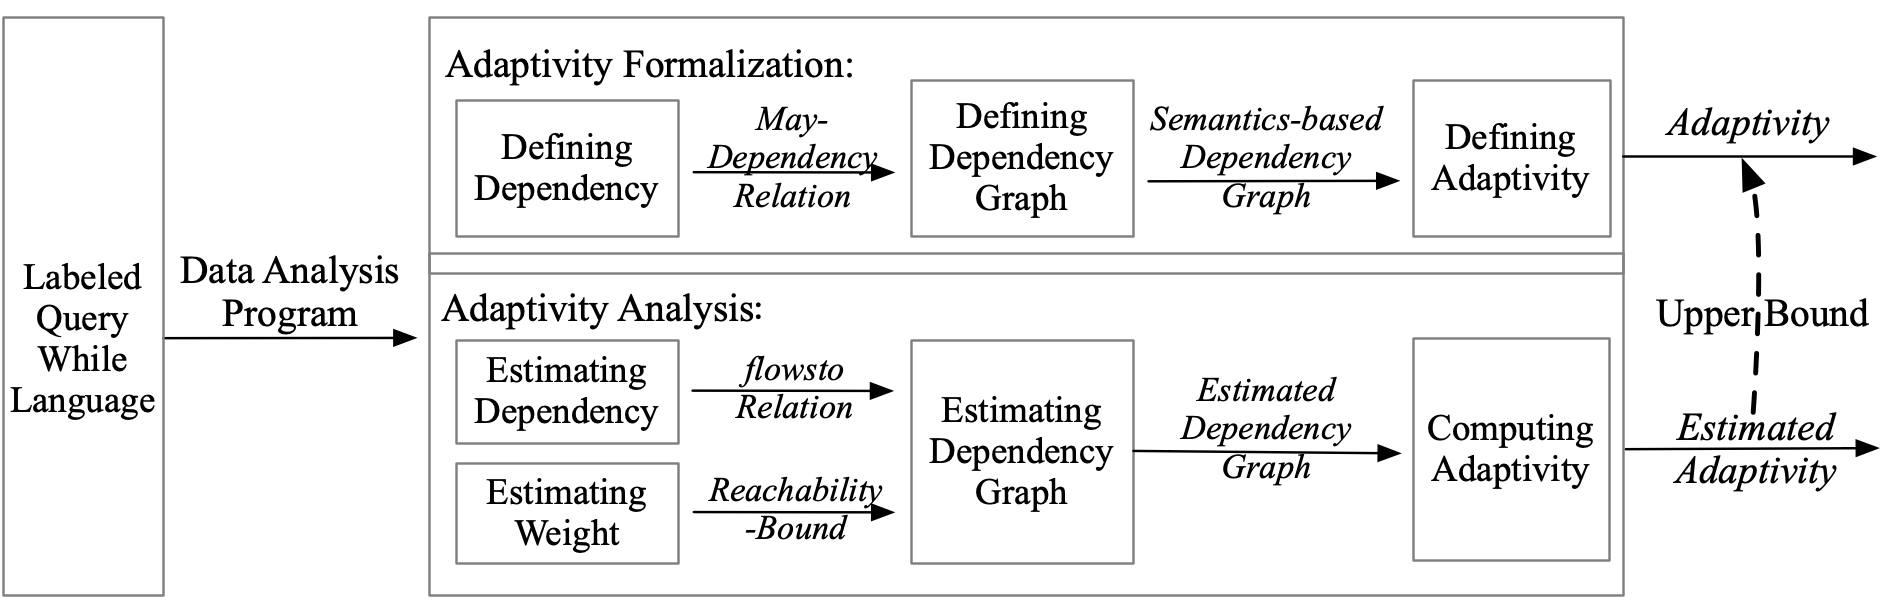
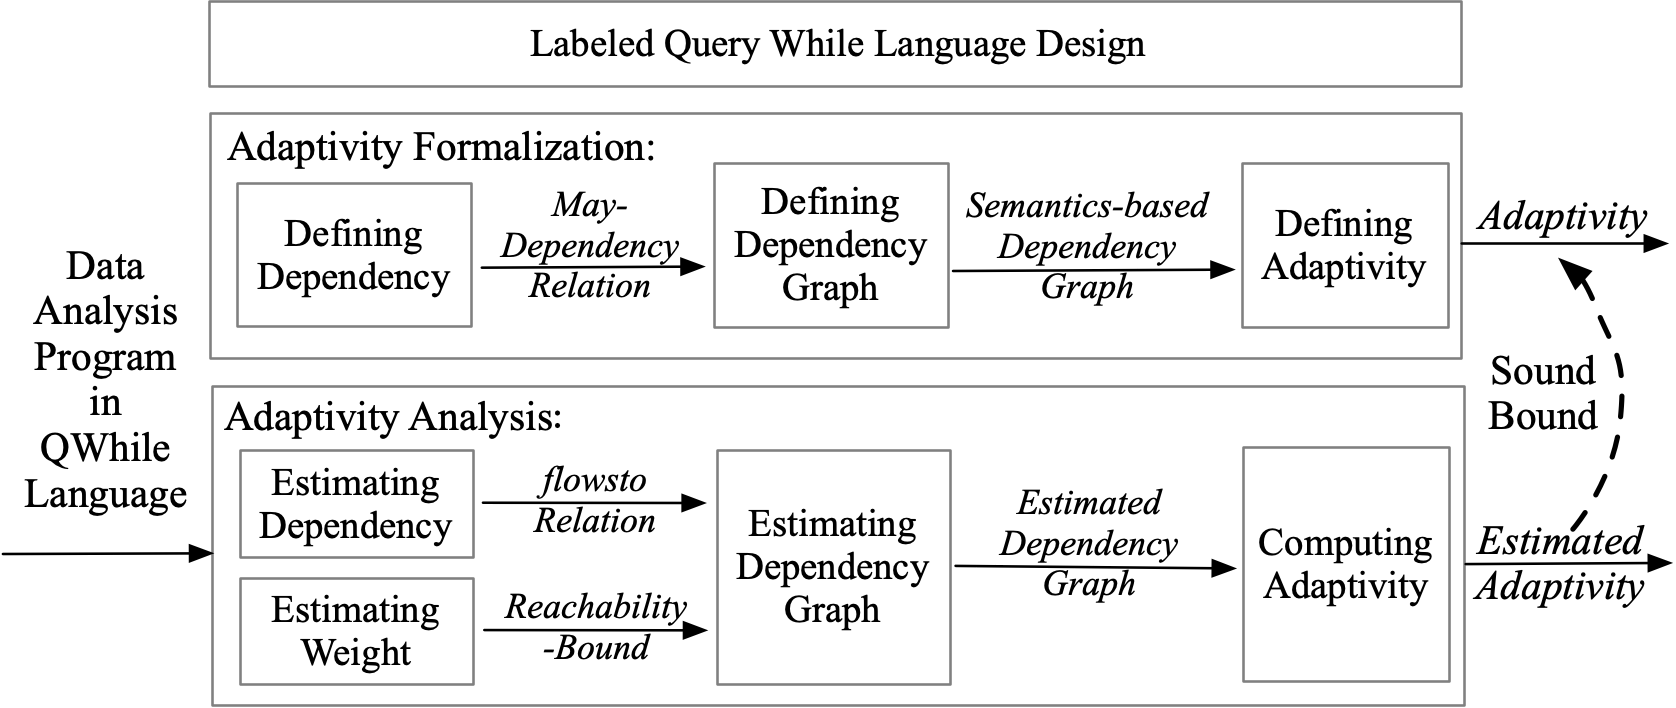
pass on the PART I adaptive Part

diff --git a/CS/Thesis/chapters/adapt/motivation.tex b/CS/Thesis/chapters/adapt/motivation.tex
@@ -108,7 +108,7 @@ This is because I'm focusing on the generalization error which could be propagat
 
 To formalize this intuitive \emph{adaptivity} as a quantitative program property, 
 I analyze the program's execution based on its semantics
-%  develop an execution-based analysis 
+%  develop an semantics-based analysis 
 in Section~\ref{sec:adapt-exe}.
 \item 
 \textbf{Adaptivity Estimation}
@@ -121,7 +121,7 @@ I can use a program analysis that is based on some form of dependency analysis.
 Hence, it needs to consider some form of data flow analysis. 
 2) the fact that, in general, the decision on whether to run a query or not may depend on some other value. Hence, 
  it needs to consider some form of control flow analysis.
-3) the fact that. in general, I am not only interested in whether there is a dependency or not, but in the length of the chain of dependencies. 
+3) the fact that. In general, I am not only interested in whether there is a dependency or not, but in the length of the chain of dependencies. 
 Hence, it needs to consider some quantitative information about the program dependencies. % {A quick example is that: I store the result of query $Q_1$ in variable $x$ and use variable $y$ to record the result of query $Q_2$. I want to construct the third query $Q_3$ which relies on the value stored in $x$, let us say, $Q_3$ will ask for the sum of the first column of a table if $x$ is positive and the sum of the second column otherwise. In this situation, I need data flow analysis. On the other hand, if I need the value of $y$ to help us decide whether I should ask $Q_3$, for example, I ask the third query if $y$ is odd, and do not ask if $y$ is even. Naturally, to be able to handle this case, control flow analysis comes into play. Formally speaking, }
 
 To address these considerations and be able to estimate a sound upper bound on the adaptivity of a program, 
@@ -130,7 +130,7 @@ I develop a static program analysis in Section~\ref{sec:adapt-static}, named {\T
 \end{enumerate}
 % \\
 %
-\subsection{Technique Overview}
+\subsection{Proposed Methodology}
 \label{sec:adapt-intro-overview}
 
 \subsubsection{Language Design}
@@ -184,23 +184,23 @@ execution.
 %
 % And the 
 There are different methodologies that can be used to formalize the dependency between two query requests, such as the 
-dynamic analysis, execution-based analysis, static analysis, etc.
+dynamic analysis, semantics-based analysis, static analysis, etc.
 %
 In order to capture the dependency (also the intuitive \emph{adaptivity}) in the most precise way,
-% I design the execution-based program analysis method.
+% I design the semantics-based program analysis method.
 I formalize the adaptivity based on the program's execution.
 %
 % In order to define it in 
 % The most precise way to define this dependency is by observing the actual evaluation of these query requests during the 
 % program execution.
-This execution-based
+This semantics-based
 % program analysis method 
 formalization is precise in defining both the dependency relation
 % between query requests,
 and the intuitive \emph{adaptivity} because it is
 % In particular, I'm interested in the history or provenance of a query up until this is executed, I'm not then concerned about how the result is used --- except for tracking whether the result of the query may further cause some other query. 
-% Based on this, I design the adaptivity formalization method through the execution-based program analysis techniques.
-% These execution-based analysis techniques are 
+% Based on this, I design the adaptivity formalization method through the semantics-based program analysis techniques.
+% These semantics-based analysis techniques are 
 based on observing the actual evaluation of these query requests during the 
 program execution. This is consistent with the intuition of query requests dependency and their dependency depth,
 as well as the intuitive
@@ -217,7 +217,7 @@ and formalizing the program's properties.
 % dependency analysis. 
 However, it is not straightforward how to apply them to analyzing and formalizing the \emph{adaptivity}
 for adaptive data analysis program.
-There are following three limitations among existing execution-based analysis techniques.
+There are following three limitations among existing semantics-based analysis techniques.
 \begin{enumerate}
 \item The state-of-art dependency relation analysis techniques don't
 consider both control influence and value influence. However, both of these
@@ -243,12 +243,12 @@ These previous works and limitations on formalizing the adaptivity are introduce
 %
 \paragraph{Methodology Overview}
 % To formalize this intuition as a quantitative program property, 
-% in Chapter~\ref{ch:dynamic} I develop an execution-based analysis
+% in Chapter~\ref{ch:dynamic} I develop an semantics-based analysis
 % % I first consider all the possible evaluations of a program --- I do this by 
 % % I use trace semantics recording the execution history of programs on some given input --- and I create a dependency graph, where the dependency between different variables (query is also assigned to a variable) is explicit and track which variable is associated with a query request. 
 % % I then enrich this graph with weights describing the maximal number of times each variable is evaluated in a program evaluation starting with an initial state. The adaptivity is then defined as the length of the walk visiting most query-related variables on this graph. 
-% % Through two aspects: the execution-based analysis and static-based program analysis.
-% % In the execution-based analysis, I will formalize the intuitive notion of \emph{adaptivity} as a quantitative 
+% % Through two aspects: the semantics-based analysis and static-based program analysis.
+% % In the semantics-based analysis, I will formalize the intuitive notion of \emph{adaptivity} as a quantitative 
 % % property of programs. This analysis is developed 
 % in three steps through different methodologies in each step as follows,
 Given all these limitations and challenges,
@@ -257,10 +257,10 @@ I give a new adaptivity formalization model by analyzing program's exectuion in 
 % I first consider all the possible evaluations of a program --- I do this by 
 % I use a trace semantics recording the execution history of programs on some given input --- and I create a dependency graph, where the dependency between different variables (query is also assigned to a variable) is explicit and track which variable is associated with a query request. 
 % I then enrich this graph with weights describing the maximal number of times each variable is evaluated in a program evaluation starting with an initial state. The adaptivity is then defined as the length of the walk visiting most query-related variables on this graph. 
-% Through two aspects: the execution-based analysis and static-based program analysis.
-% In the execution-based analysis, I will formalize the intuitive notion of \emph{adaptivity} as a quantitative 
+% Through two aspects: the semantics-based analysis and static-based program analysis.
+% In the semantics-based analysis, I will formalize the intuitive notion of \emph{adaptivity} as a quantitative 
 % property of programs. This analysis is developed 
- This execution-based formalization is designed in three steps through different methodologies as follows,
+ This semantics-based formalization is designed in three steps through different methodologies as follows,
 % \begin{enumerate}
 % \item The dependency relation between every query, through the methodology of semantic data dependency analysis.
 % \\
@@ -268,10 +268,10 @@ I give a new adaptivity formalization model by analyzing program's exectuion in 
 % % --- and I create a dependency graph, 
 % the dependency between different variables (query is also assigned to a variable) is explicit and track which variable is associated with a query request. 
 % % I then enrich this graph with weights describing the maximal number of times each variable is evaluated in a program evaluation starting with an initial state. The adaptivity is then defined as the length of the walk visiting most query-related variables on this graph. 
-% % In the execution-based analysis, I will formalize the intuitive notion of \emph{adaptivity} as a quantitative 
+% % In the semantics-based analysis, I will formalize the intuitive notion of \emph{adaptivity} as a quantitative 
 % % property of programs. This analysis is developed 
 % % \\
-% \item The dependency quantity analysis, through the methodology of execution-based data reachability, bound analysis.
+% \item The dependency quantity analysis, through the methodology of semantics-based data reachability, bound analysis.
 % % \\
 % \item The adaptivity quantity analysis, based on the two analysis results above, gives the formal \emph{adaptivity} model 
 % for program.
@@ -291,52 +291,37 @@ I give a new adaptivity formalization model by analyzing program's exectuion in 
  % and 
  % which variable is associated with a query request. 
  % I then enrich this graph with weights describing the maximal number of times each variable is evaluated in a program evaluation starting with an initial state. The adaptivity is then defined as the length of the walk visiting most query-related variables on this graph. 
- % In the execution-based analysis, I will formalize the intuitive notion of \emph{adaptivity} as a quantitative 
+ % In the semantics-based analysis, I will formalize the intuitive notion of \emph{adaptivity} as a quantitative 
  % property of programs. This analysis is developed 
  % \\
- \item The second step in Section~\ref{sec:dynamic-reachability} is to analyze the \emph{dependency quantity} 
- % analysis, 
- based on the \emph{dependency relation} above.
- This analysis is developed through the methodology of execution-based reachability bound analysis.
- % \\
- % \item The last step in Section~\ref{sec:dynamic-adapt} is the intuitive \emph{adaptivity} quantity analysis, 
- % according to the two analysis results above, specifically \emph{dependency relation} and \emph{dependency quantity}.
- % This analysis is developed through the formal \emph{adaptivity} definition. \\
- % Specifically, I create a dependency graph, where the dependency between different variables (query is also assigned to a variable) is explicit and track which variable is associated with a query request. 
- % I then enrich this graph with weights describing the maximal number of times each variable is evaluated in a program evaluation starting with an initial state. 
- % The adaptivity is then defined as the length of the walk visiting most query-related variables on this graph. 
+ \item The second step in Section~\ref{sec:dynamic-graph} constructs a dependency graph combining the \emph{dependency relation}
+with a \emph{quantitative relation} as weight. % analysis, 
+ The edges are created by dependency comes from the \emph{dependency relation} defined above.
+ The weights describing the maximal number of times each variable is evaluated in a program evaluation starting with an initial state. 
+ For each variable (query is also assigned to a variable) 
+ we also explicitly track and annotate which one is associated with a query request. 
+
  \item The last step is the intuitive \emph{adaptivity} quantity definition, 
  according to the two analysis results above, specifically \emph{dependency relation} and \emph{dependency quantity}.
  This step 
  % is developed through 
- gives the formal \emph{adaptivity} definition. 
- \\
- Specifically, this analysis is developed by creating a dependency graph first. 
- In this graph, the dependency between different variables (query is also assigned to a variable) 
- is explicit and tracks which variable is associated with a query request. 
- This dependency comes from the \emph{dependency relation} from the first step analysis.
- \\
- Then, I enrich this graph with 
- weights describing the maximal number of times each variable is evaluated in a program evaluation starting with an initial state. 
- This weight comes from the \emph{dependency quantity} from the second step analysis results.
- \\
- The adaptivity is then defined as the length of the walk visiting most query-related variables on this graph. 
+ gives the formal \emph{adaptivity} definition, as the length of the walk visiting most query-related variables on this graph. 
  \end{enumerate}
  % \item 
 \subsubsection{Static Program Analysis}
 \label{sec:adapt-intro-static}
 % \paragraph{Limitations of Existing Execution-Based Program Analysis Techniques}
 %
-Though we have the intuitive \emph{Adaptivity} formally and precisely defined through the execution-based program analysis,
+Though we have the intuitive \emph{Adaptivity} formally and precisely defined through the semantics-based program analysis,
 it is still not useful enough for programmers.
-The weakness of the execution-based formalization comes from its in-efficiency.
+The weakness of the semantics-based formalization comes from its in-efficiency.
 It can only give the \emph{Adaptivity} number
 after the program is executed multiple times.
 When the query requests, the multiple executions consume a large amount of computation and communication resources.
 This requires us to develop an efficient analysis method, 
 which can provide the programmers with the \emph{Adaptivity} quantity.
 Because the static program analysis techniques usually don't require the execution of the program,
-they are more efficient than the execution-based formalization.
+they are more efficient than the semantics-based formalization.
 Motivated by this, we develop a static program analysis framework, named {\THESYSTEM}.
 % the through static-based 
 % program analysis techniques.
@@ -425,7 +410,7 @@ To address these considerations and be able to estimate a sound upper bound on t
 I develop a static program adaptivity analysis framework, named {\THESYSTEM} in Chapter~\ref{sec:adapt-static}.
 % which 
 % {\THESYSTEM} combines data flow and control flow analysis with reachability bound analysis~\cite{GulwaniZ10}. 
-% This new program analysis gives tighter bounds on the adaptivity of a program than the ones one would achieve by directly using the data and control flow analyses or the ones that one would achieve by directly using reachability bound analysis techniques alone. Specifically as follows in the same 3 aspects as the execution-based analysis 
+% This new program analysis gives tighter bounds on the adaptivity of a program than the ones one would achieve by directly using the data and control flow analyses or the ones that one would achieve by directly using reachability bound analysis techniques alone. Specifically as follows in the same 3 aspects as the semantics-based analysis 
 % while through static program analysis techniques, a sound estimated result will be given in each aspect as follows.
 This analysis combines data flow and control flow analysis with reachability bound analysis.
 % ~\cite{GulwaniZ10}. 
@@ -433,24 +418,19 @@ This new program analysis gives tighter bounds on the adaptivity of a program th
 by directly using the data and control flow analyses or the ones that one would achieve 
 by directly using reachability bound analysis techniques alone. 
 % Specifically as follows in the same 
-It is developed in 3 aspects similar to the execution-based adaptivity analysis 
+It is developed in 3 aspects similar to the semantics-based adaptivity analysis 
 while through static program analysis techniques. 
 A sound estimated result is given in each part, which is summarized as follows.
 \begin{enumerate}
-% \item The data dependency relation analysis through the static data flow analysis technique.
-% \item The dependency quantity analysis through the static program reachability bound analysis techniques.
-% \item The program adaptivity estimation, through newly designed algorithms based on the results estimated above, 
-% computing the adaptivity upper bound soundly 
-% and accurately.
-\item The {\THESYSTEM} analyzes the data \emph{dependency relation} through the static data flow analysis technique in Section~\ref{sec:static-dep}.
-This analysis corresponds to the first step in execution-based adaptivity analysis. 
+\item The {\THESYSTEM} analyses the data \emph{dependency relation} through the static data flow analysis technique in Section~\ref{sec:alg_edgegen}.
+This analysis corresponds to the first step in semantics-based adaptivity analysis. 
 The estimated result produced from 
 this step is proved as a sound upper bound for the \emph{dependency relation} defined in the adaptivity formalization model from Section~\ref{sec:dynamic-datadep}.
 \item 
 % Still , 
-Corresponding to the second step in execution-based adaptivity analysis, the \emph{dependency quantity} 
-is estimated by {\THESYSTEM} through the static program reachability bound analysis techniques, in Section~\ref{sec:static-quantity}.
-% This analysis corresponds to the second step in execution-based adaptivity analysis. 
+Corresponding to the second step in semantics-based adaptivity analysis, the \emph{dependency quantity} 
+is estimated by {\THESYSTEM} through the static program reachability bound analysis techniques, in Section~\ref{sec:alg_weightgen}.
+% This analysis corresponds to the second step in semantics-based adaptivity analysis. 
 The estimated result produced from 
 this step is proved as a sound upper bound for the \emph{dependency quantity} defined in the adaptivity formalization model.
 \item 
@@ -458,16 +438,11 @@ this step is proved as a sound upper bound for the \emph{dependency quantity} de
 % In 
 The static program adaptivity analysis in this step
 % , specifically estimating 
-estimates the \emph{adaptivity} formalized in the third step of adaptivity formalization in Section~\ref{sec:static-adapt}.
-% is presented in Section~\ref{sec:static-reachability}.
-% the program adaptivity estimation, 
-According to the third step of execution-based adaptivity analysis, 
-{\THESYSTEM} in this step also constructs a program-based dependence graph for approximating the execution-based dependency graph.
+estimates the \emph{adaptivity} formalized in the third step of adaptivity formalization in Section~\ref{sec:adaptfun-adaptcompute}.
+According to the third step of semantics-based adaptivity analysis, 
+{\THESYSTEM} in this step also constructs a program-based dependence graph for approximating the semantics-based dependency graph.
 % in Section~\ref{sec:dynamic-adapt}.
 Then, based on this graph, {\THESYSTEM} 
-% I design an algorithm
-% based on the results estimated above, 
-% computing 
 computes the adaptivity upper bound soundly 
 and accurately through a newly designed algorithm.
 \end{enumerate}

diff --git a/CS/Thesis/main.tex b/CS/Thesis/main.tex
@@ -479,15 +479,14 @@ my loving son \\ Taro
 \listofappendixfigures
 \endgroup
 %
-\chapter{Appendix for REACHABILITY BOUND ANALYSIS}
+\chapter{\redd{PART \romannum{1} \quad  PROGRAM ANALYSIS FRAMEWORK FOR ADAPTIVE DATA ANALYSIS}}
+\label{apdx:adapt}
+\include{chapters/adapt/appendix}
+
+\chapter{\redd{PART \romannum{2} \quad  PATH-SENSITIVE REACHABILITY BOUND ANALYSIS}}
 \label{apdx:reachability}
 \include{chapters/reachability/appendix}
 
-% \chapter*{\redd{PART \romannum{2} \quad  PROGRAM ANALYSIS FRAMEWORK FOR ADAPTIVE DATA ANALYSIS}}
-\chapter{Appendix for PROGRAM ANALYSIS FRAMEWORK FOR ADAPTIVE DATA ANALYSIS}
-\label{apdx:adapt}
-\include{chapters/adapt/appendix}
-% \stoplist[appendix]{lof}
 
 % % \include{chapters/Glossary}
 % \end{appendices}
@@ -548,7 +547,7 @@ Work office \\Boston University \\ Boston, MA 02118 \\\hyperlink{mailto:buemail@
 
 \subsection*{Doctoral Research:}
 \begin{tabular}{p{0.2\textwidth}p{0.72\textwidth}}
-\textbf{Title}: & Program-based Analysis For Quantitative Properties \\
+\textbf{Title}: & Program-based Analysis For Quantitative Reachability Properties \\
 \textbf{Thesis advisor}: & Marco Gaboardi, PhD\\
 \textbf{Defense date}: & December 3, 2021 \\
 \textbf{Summary}: & Reasoning about quantitative properties of programs has great potential in program optimization and program security. This dissertation exploits the program-based analysis to reason about quantitative properties in different areas.

diff --git a/CS/Thesis/chapters/adapt/analysis-preface.tex b/CS/Thesis/chapters/adapt/analysis-preface.tex
@@ -2,7 +2,6 @@
 %%%%% To reason about%
 In this chapter, we develop a new adaptivity analysis framework for
 adaptive data analysis as in Figure~\ref{fig:structure}.
-
 % There are mainly three parts, each targeting on a challenge above.
 It is composed of three parts as well, with each part targeting on a challenge introduced in Chapter~\ref{sec:adapt-intro}.
 The fundamental part is the {\tt Query While} language designed for formalizing the 
@@ -10,10 +9,11 @@ adaptive data analysis. Building on this,
 we formally define the intuitive \emph{adaptivity} 
 and design a static program analysis algorithm for approximating the upper bound of the 
 adaptivity as the two major parts of this framework.
-This new framework improves the expressiveness, accuracy, and the efficiency significantly.
+This new framework improves the expressiveness, accuracy and the efficiency.
 \begin{figure}
    \centering   
-   \includegraphics[width=1.0\textwidth]{figures/architecture.png}
-  \caption{Architecture of The Program Analysis Framework for Adaptivity Analysis}
+   \includegraphics[width=1.0\textwidth]{figures/architecture}
+  \caption{Architecture of The Adaptivity Analysis Framework}
    \label{fig:structure}
+   \vspace{-1.0cm}
 \end{figure}

diff --git a/CS/Thesis/chapters/adapt/appendix.tex b/CS/Thesis/chapters/adapt/appendix.tex
@@ -26,13 +26,18 @@
 \label{apdx:adaptalg_completeness}
 \input{appendices/thm-adaptivity/adaptalg_completeness}
 
-\section{The Detail Evaluation Table}
+\section{Implementation}
+\label{appendix:implementation}
+\subsection{The Detail Evaluation Table}
 \label{apdx:eval_table}
 \input{tables/adapt-eval-detail}
-\section{The Programs and Codes of The Evaluated Examples in Table~\ref{tb:adapt-imp}}
+\subsection{The Programs for The Evaluated Examples from line:6 - 15 in Table.~\ref{tb:adapt-imp}}
 \label{apdx:evaluated_examples}
-\subsection{The Programs for Examples from line:6 - 15 in Table.\ref{tb:adapt-imp}}
 \input{examples/evaluated_examples-prog}
-
-\subsection{The Programs for Examples from line:16 - 20 in Table.\ref{tb:adapt-imp}}
+\subsection{The Codes for The Evaluated  Examples from line:16 - 20 in Table.~\ref{tb:adapt-imp}}
+\label{apdx:evaluated_codes}
 \input{examples/evaluated_examples-code}
+
+% \section{Implementation}
+% \label{appendix:implementation}
+% \input{appendices/implementation}

diff --git a/CS/Thesis/chapters/adapt/overview.tex b/CS/Thesis/chapters/adapt/overview.tex
@@ -1,5 +1,5 @@
-We illustrate the key technical components of our framework through a simple adaptive data analysis with two rounds of adaptivity.
 \input{examples/twoRounds-overview}
+We illustrate the key technical components of our framework through a simple adaptive data analysis with two rounds of adaptivity.
 In this analysis, an analyst asks $k+1$ queries to a mechanism in two phases.
 In the first phase, the analyst asks $k$ queries and stores the answers that are provided by the mechanism. In the second phase, the analyst constructs a new query based on the results of the previous $k$ queries and sends this query to the mechanism. 
 The mechanism is abstract here and our goal is to use static analysis to provide an upper bound on adaptivity to help choose the mechanism.

diff --git a/CS/Thesis/chapters/adapt/syntax.tex b/CS/Thesis/chapters/adapt/syntax.tex
@@ -305,7 +305,7 @@ Every labeled variable in a program is unique, formally as follows with proof in
   Given any program $c \in \cdom$ with its label variable set $\lvar(c)$,
   every two labeled variables in this set are different.
   \[
-    \forall c \in \cdom, x^i, y^j \in \lvar(c) \sthat x^i \neq y^j.
+    \forall c \in \cdom, x^i, y^j \in \lvar(c) \sthat i \neq j.
     \]
 \end{lem}
 

diff --git a/CS/Thesis/appendices/thm-adaptivity/lem_section123.tex b/CS/Thesis/appendices/thm-adaptivity/lem_section123.tex
@@ -4,7 +4,7 @@
     Given any program $c \in \cdom$ with its label variable set $\lvar(c)$,
     every two labeled variables in this set are different.
     \[
-      \forall c \in \cdom, x^i, y^j \in \lvar(c) \sthat x^i \neq y^j.
+      \forall c \in \cdom, x^i, y^j \in \lvar(c) \sthat i \neq j.
       \]
   \end{lem}
   \begin{proof}

diff --git a/CS/Thesis/chapters/reachability/appendix.tex b/CS/Thesis/chapters/reachability/appendix.tex
@@ -1,7 +1,3 @@
-\section{Implementation}
-\label{appendix:implementation}
-\input{appendices/implementation}
-
 \section{Soundness of Path In-Sensitive Reachability Bounds Analysis}
 \label{apdx:reachability_soundness}
 \input{appendices/thm-adaptivity/reachability_soundness}

diff --git a/CS/Thesis/chapters/adapt/adapt-examples.tex b/CS/Thesis/chapters/adapt/adapt-examples.tex
@@ -1,7 +1,5 @@
 We illustrate here how our $\THESYSTEM$ work on three different examples.
 %
-\subsection{Examples}
-%
 \input{examples/multipleRounds}
 \input{examples/linearRegressionGD}
 \input{examples/multipleRoundsOdd}
